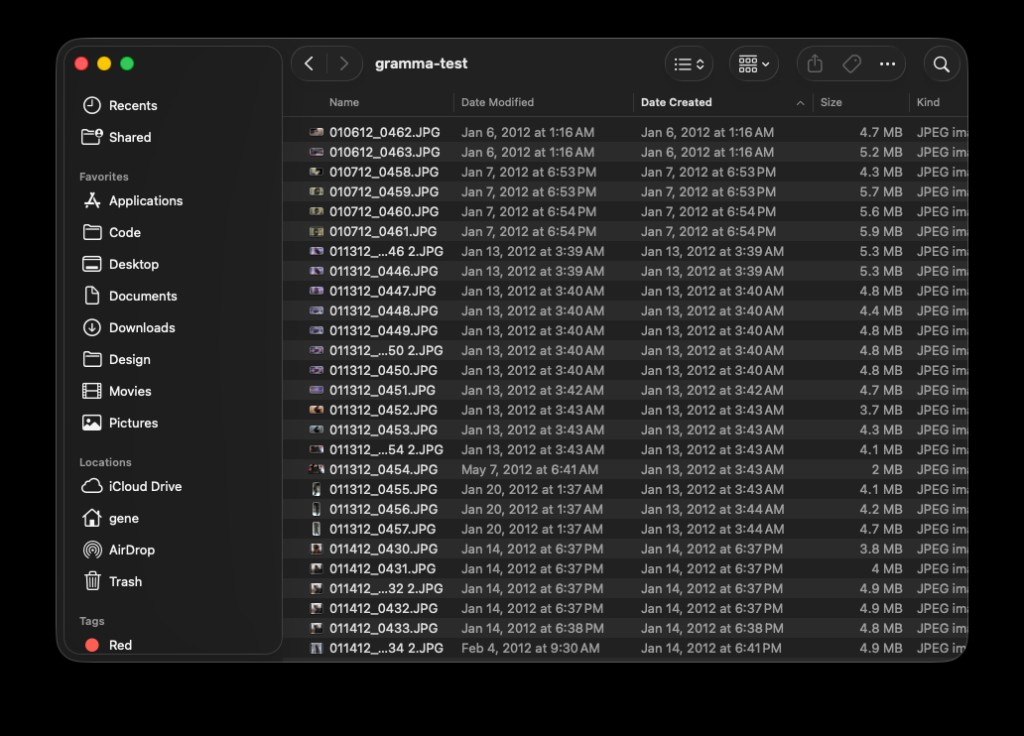
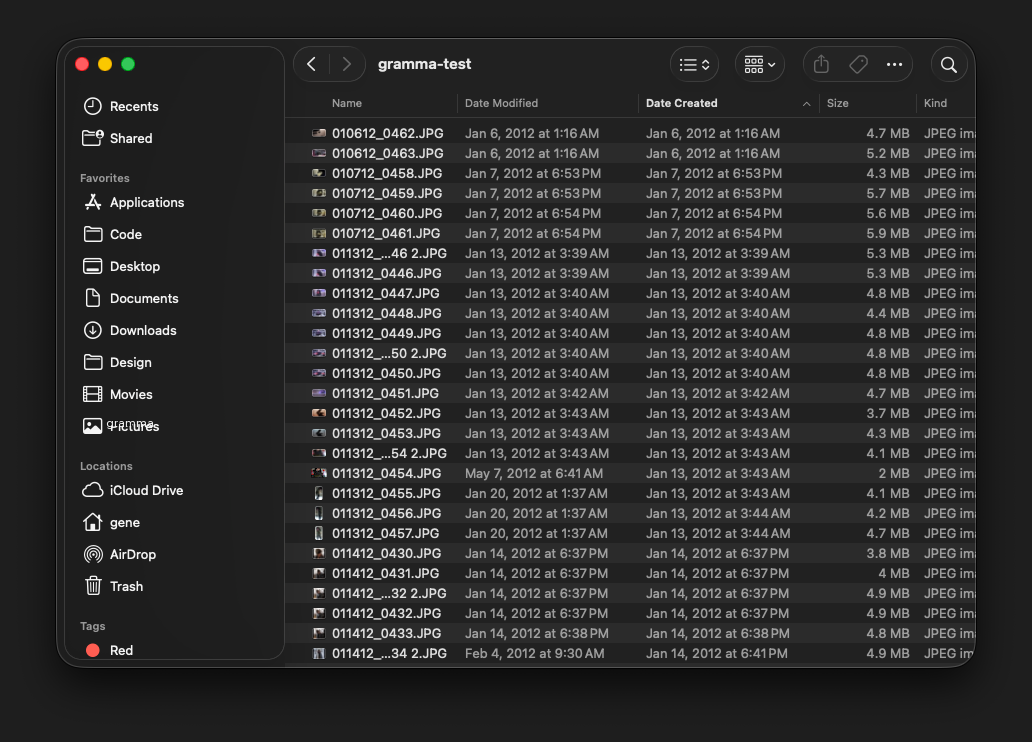
Change home folder label from gene to gramma in Finder screenshots.
Update before/after sidebar images so the Locations entry matches the Grammafold brand.

Changed region(s): [[0.0, 0.0, 1.0, 1.0], [0.0938, 0.5625, 0.1562, 0.5938]]

diff --git a/gramma/grammafold/index.html b/gramma/grammafold/index.html
@@ -89,7 +89,7 @@
             <span id="before-label" class="panel__label panel__label--before">Before</span>
             <p class="step__text">Photos and videos scattered in one folder.</p>
             <figure class="before-after__shot">
-              <img class="screenshot" src="assets/screenshots/07-finder-before.png" width="900" height="563" alt="Finder window showing thousands of unsorted photos in a single folder">
+              <img class="screenshot" src="assets/screenshots/07-finder-before.png" width="1032" height="742" alt="Finder window showing thousands of unsorted photos in a single folder">
             </figure>
           </article>
 
@@ -97,7 +97,7 @@
             <span id="after-label" class="panel__label panel__label--after">After</span>
             <p class="step__text">A clear folder for each date, organized by year.</p>
             <figure class="before-after__shot">
-              <img class="screenshot" src="assets/screenshots/08-finder-after.png" width="900" height="563" alt="Finder window showing photos organized into year folders and date subfolders">
+              <img class="screenshot" src="assets/screenshots/08-finder-after.png" width="1032" height="742" alt="Finder window showing photos organized into year folders and date subfolders">
             </figure>
           </article>
         </div>
